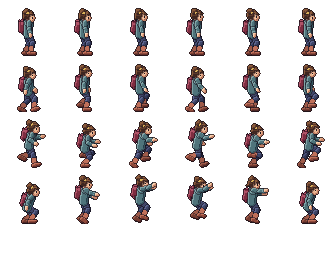
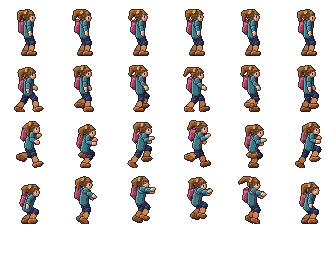
feat: ponytail hero redesign, relaxed walk and tucked run arms, Shift to sprint

diff --git a/tools/make_hero_sheet.py b/tools/make_hero_sheet.py
@@ -31,14 +31,14 @@ def hexc(value):
 
 # Palettes: light, base, shade, deep (hue-shifted ramps rather than plain darkening).
 SKIN = dict(light=hexc("#f7cfae"), base=hexc("#e8b08c"), shade=hexc("#c78468"), deep=hexc("#a2624f"))
-HAIR = dict(light=hexc("#8a5a3c"), base=hexc("#5e3a2a"), shade=hexc("#3f2620"), deep=hexc("#2a1819"))
-JACKET = dict(light=hexc("#7fa3a6"), base=hexc("#4f747b"), shade=hexc("#385760"), deep=hexc("#263e4a"))
-JACKET_FAR = dict(light=hexc("#5f8488"), base=hexc("#3d5f66"), shade=hexc("#2d4952"), deep=hexc("#1f3340"))
-PANTS = dict(light=hexc("#5d6590"), base=hexc("#3f4668"), shade=hexc("#2d3250"), deep=hexc("#1d2138"))
-PANTS_FAR = dict(light=hexc("#4a5178"), base=hexc("#323857"), shade=hexc("#242842"), deep=hexc("#171a2c"))
-BOOT = dict(light=hexc("#c0705a"), base=hexc("#8f4a3b"), shade=hexc("#64302b"), deep=hexc("#43201f"))
-BOOT_FAR = dict(light=hexc("#9e5a49"), base=hexc("#753c31"), shade=hexc("#512826"), deep=hexc("#381b1b"))
-PACK = dict(light=hexc("#b05468"), base=hexc("#7e2d41"), shade=hexc("#561e30"), deep=hexc("#3a1424"))
+HAIR = dict(light=hexc("#b6773f"), base=hexc("#8a5430"), shade=hexc("#5f3a22"), deep=hexc("#3d2418"))
+JACKET = dict(light=hexc("#6aa6ab"), base=hexc("#3f7681"), shade=hexc("#2d5662"), deep=hexc("#1f3d4a"))
+JACKET_FAR = dict(light=hexc("#4f8a91"), base=hexc("#336169"), shade=hexc("#254753"), deep=hexc("#1a3340"))
+PANTS = dict(light=hexc("#4a527f"), base=hexc("#2c3257"), shade=hexc("#1f2340"), deep=hexc("#141730"))
+PANTS_FAR = dict(light=hexc("#3c4370"), base=hexc("#242a4b"), shade=hexc("#191d37"), deep=hexc("#10122a"))
+BOOT = dict(light=hexc("#cf8650"), base=hexc("#98562f"), shade=hexc("#693820"), deep=hexc("#45241a"))
+BOOT_FAR = dict(light=hexc("#b36f40"), base=hexc("#7d4527"), shade=hexc("#552e1c"), deep=hexc("#3a1f16"))
+PACK = dict(light=hexc("#d4708a"), base=hexc("#a23f5d"), shade=hexc("#6f2a43"), deep=hexc("#471a2e"))
 OUTLINE = hexc("#17111c")
 EYE = hexc("#1c1420")
 EYE_SHINE = hexc("#fff4e6")
@@ -163,7 +163,7 @@ class Canvas:
 
 # ---------- skeleton ----------
 THIGH, SHIN = 9.0, 9.0
-UPPER_ARM, FOREARM = 6.0, 5.8
+UPPER_ARM, FOREARM = 5.2, 4.9
 TORSO = 11.6
 
 
@@ -222,30 +222,32 @@ def idle_pose(t):
 
 def walk_pose(t):
     p = t / 6
-    stride = 6.6
+    stride = 8.4
     nx, nl, na = leg_path(p, stride, 0.5, 4.6, 24, -12)
     fx, fl, fa = leg_path(p + 0.5, stride, 0.5, 4.6, 24, -12)
     bob = 0.95 * math.cos(4 * math.pi * p)
     swing = math.cos(2 * math.pi * p)
+    s = -swing  # arms swing against the legs
     return pose(
-        pelvis=(24.0, 26.5 + bob), lean=4.5, head_bob=0.15 * bob,
-        near_foot=(24 + nx, 43.6 - nl, na), far_foot=(24 + fx, 43.6 - fl, fa),
-        near_arm=(-24 * swing, 12 + 7 * max(0.0, -swing)), far_arm=(24 * swing, 12 + 7 * max(0.0, swing)),
+        pelvis=(24.0, 26.5 + bob), lean=4.0, head_bob=0.15 * bob,
+        near_foot=(24.9 + nx, 43.6 - nl, na), far_foot=(23.1 + fx, 43.6 - fl, fa),
+        near_arm=(5 + 20 * s, 16 + 14 * max(0.0, s)), far_arm=(5 - 20 * s, 16 + 14 * max(0.0, -s)),
         pack_bounce=0.6 * bob, hair_sway=-2.0 * swing, shoulder_lift=0.2 * bob,
     )
 
 
 def run_pose(t):
     p = t / 6
-    stride = 7.6
+    stride = 9.4
     nx, nl, na = leg_path(p, stride, 0.36, 10.0, 38, -14)
     fx, fl, fa = leg_path(p + 0.5, stride, 0.36, 10.0, 38, -14)
     bob = 1.7 * math.cos(4 * math.pi * (p - 0.19)) - 1.0
     swing = math.cos(2 * math.pi * p)
+    s = -swing
     return pose(
         pelvis=(24.0 + 1.0, 27.8 + bob), lean=14.0, head_tilt=-4.0, head_bob=0.3 * bob,
         near_foot=(24 + nx, 43.6 - nl, na), far_foot=(24 + fx, 43.6 - fl, fa),
-        near_arm=(18 - 36 * swing, 62 + 14 * swing), far_arm=(18 + 36 * swing, 62 - 14 * swing),
+        near_arm=(10 + 18 * s, 84 + 12 * s), far_arm=(10 - 18 * s, 84 - 12 * s),
         pack_bounce=1.2 * bob, hair_sway=-4.0 * swing - 2, shoulder_lift=0.0,
     )
 
@@ -256,16 +258,16 @@ JUMP_POSES = [
          near_arm=(-34.0, 20.0), far_arm=(-40.0, 24.0), pack_bounce=1.2, hair_sway=-2.0),
     # 1 push-off, body stretched up on the toes
     pose(pelvis=(24.0, 25.2), lean=6.0, head_tilt=2.0, near_foot=(24.4, 42.4, 38), far_foot=(21.4, 42.0, 40),
-         near_arm=(55.0, 22.0), far_arm=(40.0, 24.0), pack_bounce=-0.6, hair_sway=-3.0),
+         near_arm=(40.0, 22.0), far_arm=(30.0, 24.0), pack_bounce=-0.6, hair_sway=-3.0),
     # 2 rising, knees drawing up
     pose(pelvis=(24.0, 24.4), lean=8.0, head_tilt=0.0, near_foot=(27.5, 39.4, 18), far_foot=(21.0, 41.2, 28),
-         near_arm=(100.0, 18.0), far_arm=(84.0, 22.0), pack_bounce=-0.8, hair_sway=-4.0),
+         near_arm=(78.0, 20.0), far_arm=(62.0, 24.0), pack_bounce=-0.8, hair_sway=-4.0),
     # 3 apex, tucked
     pose(pelvis=(24.0, 25.4), lean=14.0, head_tilt=-4.0, near_foot=(28.5, 37.6, 10), far_foot=(22.5, 38.2, 22),
-         near_arm=(100.0, 30.0), far_arm=(86.0, 28.0), pack_bounce=0.0, hair_sway=-1.0),
+         near_arm=(70.0, 30.0), far_arm=(56.0, 30.0), pack_bounce=0.0, hair_sway=-1.0),
     # 4 falling, legs reaching down
     pose(pelvis=(24.0, 25.6), lean=5.0, head_tilt=3.0, near_foot=(26.6, 42.6, 24), far_foot=(21.6, 41.2, 30),
-         near_arm=(78.0, 16.0), far_arm=(62.0, 20.0), pack_bounce=1.2, hair_sway=3.5),
+         near_arm=(58.0, 18.0), far_arm=(44.0, 22.0), pack_bounce=1.2, hair_sway=3.5),
     # 5 landing, absorbing the impact
     pose(pelvis=(23.6, 30.4), lean=16.0, head_tilt=-4.0, near_foot=(27.0, 43.6, -2), far_foot=(21.0, 43.6, 0),
          near_arm=(-18.0, 30.0), far_arm=(-26.0, 34.0), pack_bounce=1.5, hair_sway=-1.0),
@@ -297,14 +299,14 @@ def draw_leg(canvas, hip, foot, far):
     shin = (ankle[0] - knee[0], ankle[1] - knee[1])
     length = math.hypot(*shin) or 1
     up = (-shin[0] / length, -shin[1] / length)
-    # boot: a short shaft with a lighter cuff, then a foot with a rounded toe
-    shaft_top = add(ankle, scale(up, 3.4))
-    canvas.paint(capsule(shaft_top, ankle, 2.25, 2.0), boots)
-    cuff = capsule(shaft_top, add(shaft_top, scale(up, -1.0)), 2.35, 2.2)
+    # boot: a chunky shaft with a lighter cuff, then a foot with a rounded toe
+    shaft_top = add(ankle, scale(up, 4.2))
+    canvas.paint(capsule(shaft_top, ankle, 2.5, 2.2), boots)
+    cuff = capsule(shaft_top, add(shaft_top, scale(up, -1.2)), 2.6, 2.4)
     canvas.mask_pixels(cuff, boots["light"])
-    heel = add(ankle, add(scale(direction, -1.2), scale(rot((0, 1), angle), 1.8)))
-    toe = add(ankle, add(scale(direction, 4.0), scale(rot((0, 1), angle), 1.8)))
-    canvas.paint(capsule(heel, toe, 1.95, 1.6), boots)
+    heel = add(ankle, add(scale(direction, -1.3), scale(rot((0, 1), angle), 1.8)))
+    toe = add(ankle, add(scale(direction, 4.3), scale(rot((0, 1), angle), 1.8)))
+    canvas.paint(capsule(heel, toe, 2.1, 1.75), boots)
     return knee, ankle
 
 
@@ -324,7 +326,7 @@ def draw_arm(canvas, shoulder, arm, far):
     return add(wrist, scale(fore_dir, 1.0))
 
 
-HOLD_ARM = (76.0, 44.0)  # raised forward so a torch is carried in front of the face
+HOLD_ARM = (24.0, 104.0)  # elbow close to the body, forearm raised so the torch is carried beside the head
 
 
 def render(row, frame, hold=False):
@@ -372,6 +374,8 @@ def render(row, frame, hold=False):
     canvas.mask_pixels(zipper & torso, JACKET["deep"])
     collar = capsule(add(shoulder, scale(u, -0.6)), add(shoulder, scale(u, 1.0)), 3.3, 2.7)
     canvas.paint(collar, dict(JACKET, base=JACKET["light"], shade=JACKET["base"]), separate=True)
+    strap = capsule(add(add(shoulder, scale(u, 0.2)), scale(front, 0.8)), add(add(pelvis, scale(u, 3.4)), scale(front, 3.0)), 0.5, 0.5)
+    canvas.mask_pixels(strap & torso & ~collar, PACK["shade"])
 
     # neck and head
     neck_base = add(shoulder, scale(u, 0.6))
@@ -393,26 +397,26 @@ def render(row, frame, hold=False):
     canvas.pixels([hp(4.3, 1.7)], SKIN["shade"])
     canvas.pixels([hp(3.0, 3.1)], SKIN["deep"])
     canvas.pixels([hp(1.9, 1.5)], SKIN["light"])
-    # hair: cap over the back and top, a swept fringe, a bun with a tie and a short tail
+    # hair: cap over the back and top, a swept fringe and a high ponytail with a tie
     sway = spec["hair_sway"]
     cap = ellipse(hp(-1.3, -1.1), 5.4, 5.5, tilt)
     dx, dy = PX - head_c[0], PY - head_c[1]
     ca, sa = math.cos(math.radians(tilt)), math.sin(math.radians(tilt))
     local_x, local_y = dx * ca + dy * sa, -dx * sa + dy * ca
-    cut = None
     face = (local_x > -0.9) & (local_y > -2.7)
     hair = cap & ~face & (local_y < 2.4)
     hair |= capsule(hp(0.2, -3.7), hp(3.9, -2.5), 1.25, 0.85)
     hair |= capsule(hp(-0.4, -3.0), hp(-0.2, -0.4), 0.9, 0.8)
-    tail = capsule(hp(-4.0, -3.6), hp(-5.5 - sway * 0.5, 1.8), 1.0, 0.7)
-    bun_c = hp(-3.6 + sway * 0.2, -5.2)
-    bun = ellipse(bun_c, 2.8, 2.6)
-    hair |= tail
     canvas.paint(hair, HAIR, separate=True, light=hair & ellipse(hp(0.0, -3.7), 2.6, 1.0, tilt),
                  shade=hair & ellipse(hp(-3.6, 1.2), 2.2, 1.8, tilt))
-    canvas.paint(bun, HAIR, separate=True, light=bun & ellipse(add(bun_c, (-0.6, -0.9)), 1.2, 0.9))
-    tie = capsule(hp(-2.6, -3.2), hp(-1.4, -4.0), 0.8, 0.8) & (hair | bun)
-    canvas.mask_pixels(tie, TIE)
+    # ponytail: tied high at the back, hangs down and streams behind when moving fast
+    tie_p = hp(-3.4, -4.4)
+    mid = add(tie_p, rot((-6.2, 1.0), sway * 5.0))
+    end = add(mid, rot((-0.8 - 0.6 * abs(sway), 6.4), sway * 9.0))
+    tail = capsule(tie_p, mid, 2.1, 2.4) | capsule(mid, end, 2.4, 0.9)
+    canvas.paint(tail, HAIR, separate=True, light=tail & ellipse(add(mid, (-0.4, -1.2)), 1.6, 1.0),
+                 shade=tail & ellipse(add(end, (0.9, -1.0)), 1.3, 2.2))
+    canvas.mask_pixels(capsule(add(tie_p, (-0.6, -0.8)), add(tie_p, (-1.2, 1.0)), 1.0, 1.0), TIE)
 
     if hold:
         hand = draw_arm(canvas, add(shoulder, scale(front, 0.4)), HOLD_ARM, far=False)

diff --git a/tests/TerrainScaleSmoke.cs b/tests/TerrainScaleSmoke.cs
@@ -61,12 +61,28 @@ public partial class TerrainScaleSmoke : Node
             float startX = _player.GlobalPosition.X;
             Hold(Key.D, true);
             await RealSeconds(0.5);
-            Require(HeroRow() == 2, "A moving player plays the run animation.");
+            Require(HeroRow() == 1, "A walking player plays the walk animation.");
             await RealSeconds(0.5);
             Hold(Key.D, false);
             float walked = _player.GlobalPosition.X - startX;
             GD.Print($"PERF walked {walked:F0}px in 1s (speed {_player.WalkSpeed})");
             Require(walked > _player.WalkSpeed * 0.9f, "Walking along flat blocks must not snag on seams.");
+
+            // Holding Shift sprints: faster, with the run animation.
+            Teleport(100 * World.TileSize, standY - 2f);
+            await RealSeconds(0.3);
+            startX = _player.GlobalPosition.X;
+            Hold(Key.Shift, true);
+            Hold(Key.D, true);
+            await RealSeconds(0.6);
+            Require(HeroRow() == 2, "A sprinting player plays the run animation.");
+            Require(_player.Velocity.X > _player.WalkSpeed * 1.4f, "Sprinting must be clearly faster than walking.");
+            await RealSeconds(0.4);
+            Hold(Key.D, false);
+            Hold(Key.Shift, false);
+            float sprinted = _player.GlobalPosition.X - startX;
+            GD.Print($"PERF sprinted {sprinted:F0}px in 1s (speed {_player.SprintSpeed})");
+            Require(sprinted > walked * 1.4f, "Sprinting covers much more ground than walking.");
 
             // One-block ledges are climbed automatically.
             for (int x = 112; x < 118; x++) _world.SetTile(new Vector2I(x, 29), 1);
@@ -143,7 +159,9 @@ public partial class TerrainScaleSmoke : Node
             Teleport(103 * World.TileSize, walkY - 2f);
             await RealSeconds(0.4);
             Hold(Key.D, true);
-            await RealSeconds(1.2);
+            ulong walkLimit = Time.GetTicksMsec() + 3000;
+            while (_player.GlobalPosition.X < 112.5f * World.TileSize && Time.GetTicksMsec() < walkLimit)
+                await ToSignal(GetTree(), SceneTree.SignalName.PhysicsFrame);
             Hold(Key.D, false);
             Require(_player.GlobalPosition.X > 112 * World.TileSize, "A 3-block-high opening must let the player walk through.");
             for (int x = 105; x < 111; x++) { _world.SetTile(new Vector2I(x, 26), 0); _world.SetTile(new Vector2I(x, 27), 1); }

diff --git a/scripts/Player.cs b/scripts/Player.cs
@@ -17,7 +17,8 @@ public partial class Player : CharacterBody2D
     private const float Acceleration = 2400f;
     private const float IconPixel = HeroSprite.PixelScale;
 
-    [Export] public float WalkSpeed { get; set; } = 240f;
+    [Export] public float WalkSpeed { get; set; } = 170f;
+    [Export] public float SprintSpeed { get; set; } = 290f;
     [Export] public float JumpVelocity { get; set; } = -520f;
     [Export] public float Gravity { get; set; } = 1400f;
 
@@ -80,7 +81,8 @@ public partial class Player : CharacterBody2D
                    - (Input.IsKeyPressed(Key.A) || Input.IsKeyPressed(Key.Left) ? 1 : 0);
         // Stops are instant so lining up with a gap stays precise; only the start eases in.
         if (axis == 0f || Mathf.Sign(velocity.X) == -axis) velocity.X = 0f;
-        velocity.X = Mathf.MoveToward(velocity.X, axis * WalkSpeed, Acceleration * dt);
+        float topSpeed = Input.IsKeyPressed(Key.Shift) ? SprintSpeed : WalkSpeed;
+        velocity.X = Mathf.MoveToward(velocity.X, axis * topSpeed, Acceleration * dt);
         if (axis != 0f) _facing = axis;
         Velocity = velocity;
 
@@ -143,10 +145,10 @@ public partial class Player : CharacterBody2D
         }
         else if (speed > 5f)
         {
-            bool run = speed >= WalkSpeed * 0.7f;
+            bool run = speed > WalkSpeed * 1.15f;
             row = run ? HeroRow.Run : HeroRow.Walk;
-            // One cycle per ~70px of running or ~30px of walking keeps the feet from skating.
-            _runCycle = Mathf.PosMod(_runCycle + speed * dt / (run ? 70f : 30f), 1f);
+            // Distance covered per animation cycle, matched to the stride so the feet do not skate.
+            _runCycle = Mathf.PosMod(_runCycle + speed * dt / (run ? 78f : 48f), 1f);
             column = (int)(_runCycle * HeroSprite.Columns);
         }
         else

diff --git a/tests/HeroWalkCapture.cs b/tests/HeroWalkCapture.cs
@@ -25,7 +25,12 @@ public partial class HeroWalkCapture : Node
             Input.FlushBufferedEvents();
             for (int i = 0; i < 12; i++)
             {
-                await Wait(0.045);
+                if (i == 6)
+                {
+                    Input.ParseInputEvent(new InputEventKey { Keycode = Key.Shift, PhysicalKeycode = Key.Shift, Pressed = true });
+                    Input.FlushBufferedEvents();
+                }
+                await Wait(0.07);
                 await ToSignal(RenderingServer.Singleton, RenderingServer.SignalName.FramePostDraw);
                 Image full = GetViewport().GetTexture().GetImage();
                 full.GetRegion(new Rect2I((int)(full.GetWidth() / 2f) - 90, (int)(full.GetHeight() / 2f) - 100, 180, 200))
